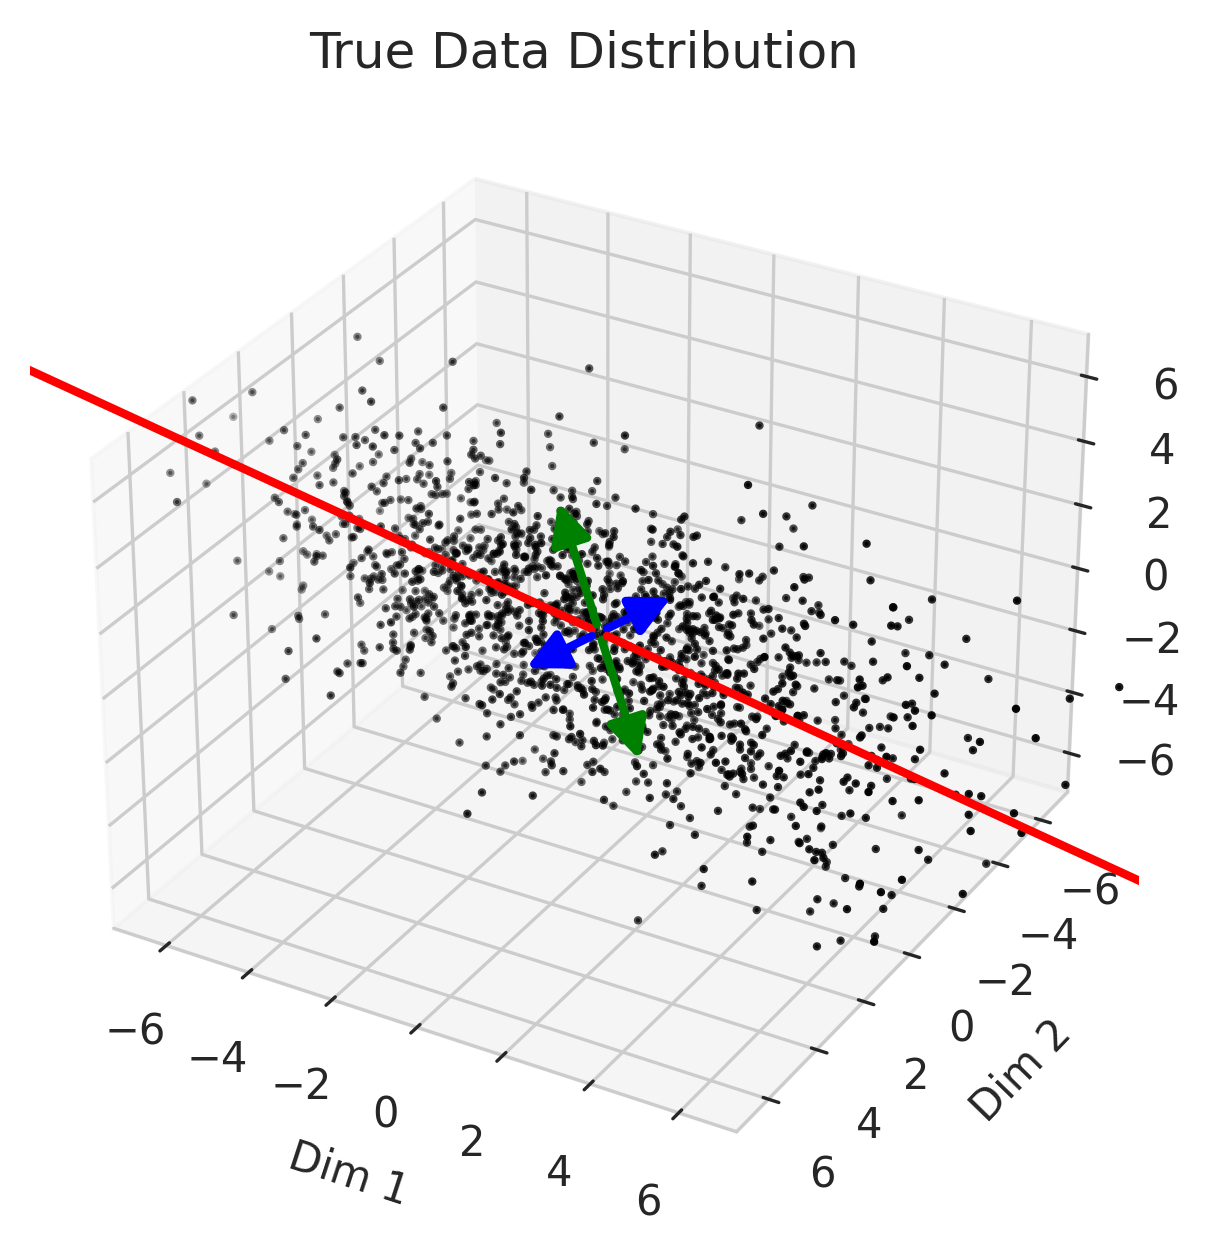
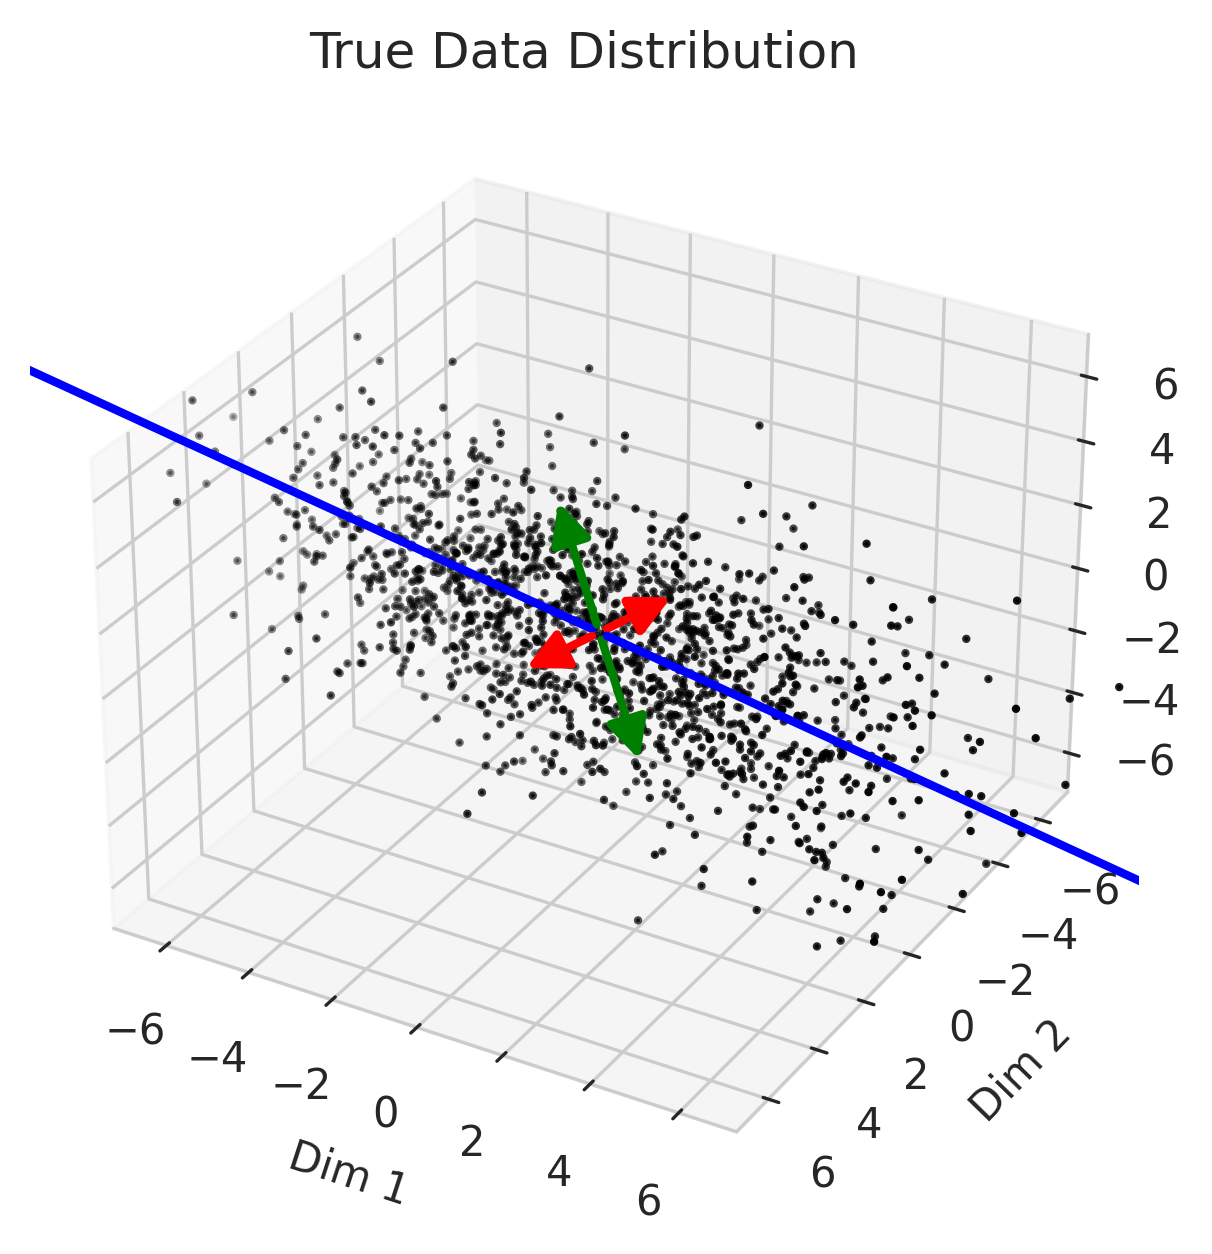
Fixed one small color error

diff --git a/smallest_nonzero_singular_value.py b/smallest_nonzero_singular_value.py
@@ -55,7 +55,7 @@ for eigidx, (eigval, eigvec) in enumerate(zip(eigvals, eigvecs.T)):
         drawvec = Arrow3D([0, prefactor * scaled_eigvec[0]],
                           [0, prefactor * scaled_eigvec[1]],
                           [0, prefactor * scaled_eigvec[2]],
-                          mutation_scale=20, lw=2, arrowstyle="-|>", color=eigindex_color_map[2 - eigidx])
+                          mutation_scale=20, lw=2, arrowstyle="-|>", color=eigindex_color_map[eigidx])
         # adding the arrow to the plot
         ax.add_artist(drawvec)
 
